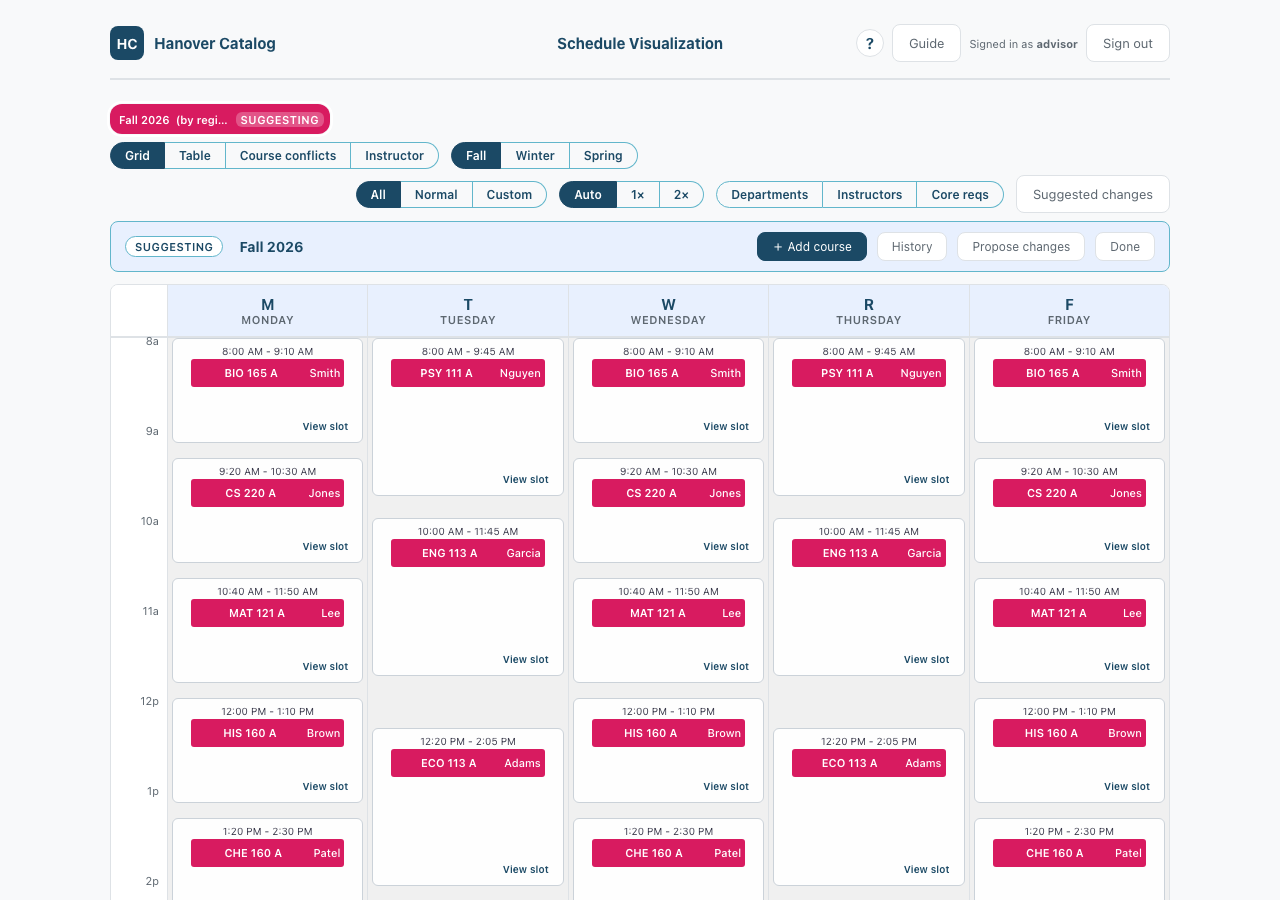
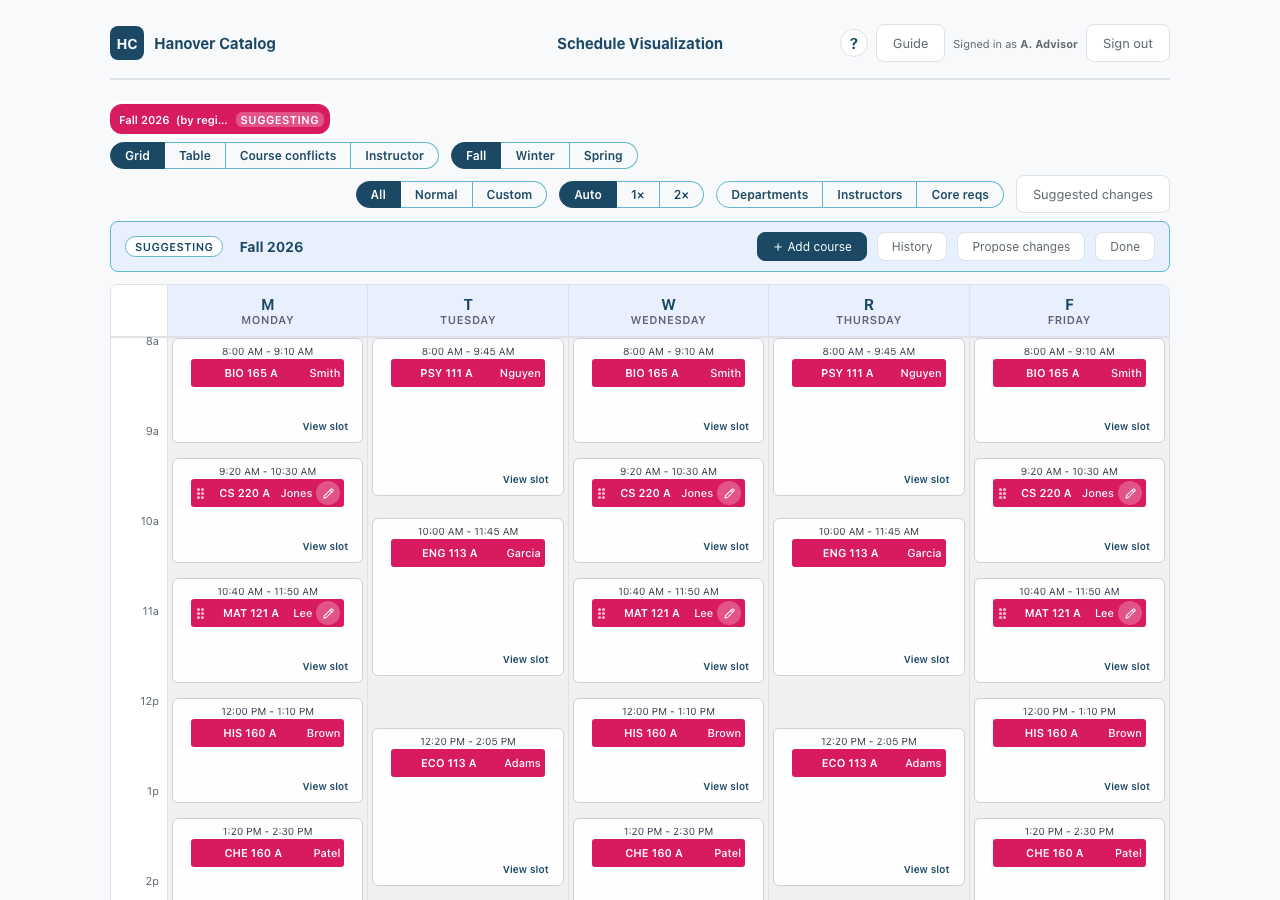
docs-site: a chair's first-session walkthrough and a table view page
Adds a self-contained getting-started walkthrough for a department chair
(sign in, activate the shared schedule, add and adjust courses, send
suggestions, watch the proposals trail) with the finer details linked at
each step, and a dedicated Working with the table view page covering the
filters, linkable URLs, in-place cell edits, and row actions. views.md is
slimmed to a summary pointing at the new page.

The screenshot harness gains schedule-table-edit.png (a suggest session
in the table, the advisor's departments editable) and the suggest fixture
now sets the advisor's departments so those rows are editable; all shots
re-rendered.

diff --git a/docs-site/guide/schedule/chair-first-session.md b/docs-site/guide/schedule/chair-first-session.md
@@ -1,0 +1,175 @@
+# A department chair's first session
+
+This walkthrough is for a department chair who has been handed a schedule to
+fill in for next year: the registrar made it, added your name, and now it is
+your job to say what your department will teach. Follow it top to bottom once
+and you will have done the whole loop — signed in, brought the schedule into
+your week, added and adjusted courses, sent your suggestions, and seen what
+other departments are asking for. Each step is enough to do the task; pages
+with the finer details are linked at the bottom of the step and listed at the
+end.
+
+## 1. Sign in
+
+When the app opens it asks you to **Sign in** or **Work offline**.
+
+- **Sign in** keeps your schedules on the college server, so they are there
+  next time and can be shared. If it offers **Sign in with SSO**, that is the
+  college login you already use.
+- **Work offline** keeps everything on this one computer — fine for trying
+  things out, but nothing is shared.
+
+Once you are in, the top right reads **Signed in as …**.
+
+## 2. Show the schedule that was shared with you
+
+Your schedule was created by someone else and your name was added to it. There
+is no invitation link to click — it simply appears for you:
+
+1. Click **Your schedules** at the top left.
+2. Look under **Shared with you**, or under **Public** if it was opened to
+   everyone. The **Filter by name or owner…** box and the **All years** list
+   narrow things down.
+3. Click the **eye** on its row.
+
+The schedule is now showing in your week: its classes draw on the grid, and
+the colored **pill** at the top names it. Nothing under **Shared with you**?
+Ask the schedule's owner to add your name.
+
+## 3. Read the week
+
+The **Grid** is the home view: five columns, one per weekday (**M T W R F** —
+**R is Thursday**), a time ruler down the left, and a colored block for each
+class meeting.
+
+- The **Fall**, **Winter**, and **Spring** buttons switch terms; next year's
+  plan usually lives in one of them.
+- Click a day name (for example **M Monday**) to see that whole day in order.
+- Click a block to open it, then **View slot** to list everything meeting at
+  that exact time.
+
+<Shot file="schedule-overview.png" />
+
+Finer details: [The views at a glance](/guide/schedule/views).
+
+## 4. Add your courses
+
+You do not own this schedule, so you cannot change it directly — you
+**suggest** changes and the owner approves them. That is how everyone else
+works on it too.
+
+1. On the schedule's colored **pill**, click the **speech bubble** to start
+   suggesting. A bar appears with **＋ Add course**, **History**,
+   **Propose changes**, and **Done**.
+
+<Shot file="schedule-suggest-session.png" />
+
+2. Click **＋ Add course** and start typing a course **code or name** — for
+   example `CS 220` or `statistics`. The list narrows as you type. Searches
+   lean toward the departments you belong to, but any course can be found.
+3. Click the section you want (for example **CS 220 A**). The course editor
+   opens with sensible defaults.
+
+<Shot file="schedule-add-course.png" />
+
+4. Adjust the teacher, meeting time, and seats if the defaults are not right
+   (see the next step), then **Save changes**. The course appears in your week
+   immediately — as a draft only you can see until you propose it.
+5. Add the rest of your courses the same way.
+
+Finer details: [Adding a course](/guide/schedule/add-course) and
+[Editing vs suggesting](/guide/schedule/edit-vs-suggest).
+
+## 5. Adjust an existing course
+
+Click the **pencil** on any course block — or on its row in the table view —
+to open the editor for that section. It holds everything:
+
+- **Section** — the letter that identifies the class (A, B, …).
+- **Seats** — the number of seats you are requesting (defaults to 24).
+- **Title** — leave it blank to use the catalog title, or type one for a
+  special-topics section.
+- **Instructor** — start typing, then pick from the name suggestions.
+- **Meeting time** — pick a standard **Time slot**, type a **Custom time**, or
+  choose **No meeting time**.
+
+<Shot file="schedule-course-editor.png" />
+
+Click **Save changes** when you are done, or **Cancel** to leave the course
+untouched. One quirk worth knowing: if a class meets **MWF** and you switch it
+to **TR**, the old time no longer applies, so the app asks you to **Pick a
+time slot for TR** before it will save — and the same the other way around.
+
+Finer details: [Changing a course](/guide/schedule/edit-course), including
+labs, co-teachers, and custom times.
+
+## 6. Review your department in the table view
+
+Switch to the **Table** tab to see every offering of the term as one compact
+row: course, title, instructor, meeting, seats, core areas, and which schedule
+it came from. It is the fastest way to check that your department adds up.
+
+- **Departments** and **Instructors** chips hide everything that does not
+  match; pick several chips to widen the list, and **Clear** to reset.
+- In your suggest session the cells you may change are editable in place:
+  click **Instructor** to pick from name suggestions, click **Meeting** to
+  choose a standard time (or **Custom…**), and type over **Title** and
+  **Seats**. Enter or clicking away commits; Esc cancels.
+- The row's **pencil** opens the full course editor, and **＋ Add course** is
+  right in the table's header.
+
+<Shot file="schedule-table-edit.png" />
+
+Finer details: [Working with the table view](/guide/schedule/table-view).
+
+## 7. Send your suggestions
+
+Nothing you have done so far has reached the schedule. Your edits sit in a
+private draft until you send them:
+
+1. Click **Propose changes** — the **●** beside it means there are changes not
+   sent yet.
+2. Add a short note if you like (for example "CS 220 moved to TR; CS 223
+   added"), then send.
+3. Click **Done** to leave the session. If anything is still unsent, the app
+   asks before discarding it.
+
+The proposals are now **pending**, waiting for the owner. Nothing is written
+to the schedule until they approve.
+
+Finer details: [Submitting changes](/guide/schedule/proposals).
+
+## 8. See what other departments proposed
+
+Suggestions run both ways. The toolbar's **Suggested changes** button opens
+the shared record for the schedule: every live proposal, who made it, and the
+history of what was approved, rejected, or withdrawn.
+
+<Shot file="schedule-proposals.png" />
+
+As a suggester (not the owner) you can read the whole trail here and withdraw
+your own proposals; **Approve**, **Reject**, and **Export (markdown)** belong
+to the owner. **History** on the session bar is different — that is just your
+own changes from this sitting, with undo.
+
+Finer details:
+[Submitting changes and reviewing suggestions](/guide/schedule/proposals).
+
+## Where to find the finer details
+
+- [The views at a glance](/guide/schedule/views) — day, slot, filters, and the
+  core-requirement highlight.
+- [Working with the table view](/guide/schedule/table-view) — filters, linkable
+  URLs, and every in-place edit.
+- [Checking for conflicts](/guide/schedule/conflicts) — classes that collide
+  and double-booked teachers.
+- [Where a course can hide](/guide/schedule/hiding) — no-meeting courses and
+  unusual times.
+- [Adding a lab](/guide/schedule/labs) — attach a lab section to its lecture.
+- [Downloading a CSV](/guide/schedule/csv) — the current week or a whole
+  schedule.
+- [Sharing a schedule](/guide/schedule/sharing) — who can see and suggest.
+- [Your schedules](/guide/schedule/your-schedules) — creating, copying, and
+  managing schedules.
+- [Words used in this app](/guide/schedule/glossary) — the plain-language
+  dictionary.

diff --git a/docs-site/guide/schedule/table-view.md b/docs-site/guide/schedule/table-view.md
@@ -1,0 +1,66 @@
+# Working with the table view
+
+The **Table** tab shows every offering of the selected schedules' term as one
+compact, spreadsheet-like row — the fastest way to scan a whole department and
+the quickest place to make a series of small changes.
+
+<Shot file="schedule-table.png" />
+
+## The columns
+
+**Course** and section, **Title**, **Instructor**, **Meeting**, **Seats**,
+**Core** areas, and **Schedule** (which of the shown schedules the row belongs
+to). The corner count — **N offerings** — tells you how many rows are in view.
+The term buttons (**Fall**, **Winter**, **Spring**) apply here like everywhere
+else.
+
+## Narrowing the list
+
+The **Departments** and **Instructors** chips hide everything that does not
+match. Pick several chips to widen the list; click a selected chip to drop it;
+**Clear** resets both.
+
+- The Departments row starts expanded; the Instructors row starts collapsed —
+  click its header to expand it (or to tuck it away again).
+- A collapsed row keeps its selected chips visible, so you can still remove
+  them, and the header shows how many are selected.
+- The choice lives in the address, like a link you can keep:
+  `#/table?dept=CS&dept=MAT&instructor=jsmith`. Following a course link and
+  pressing Back, or returning later, restores it.
+
+## Read-only, or editable
+
+Outside a session the table is read-only — the hint in the corner says so —
+and every value is plain text. Start an **edit** session (the pencil on a
+schedule you own) or a **suggest** session (the speech bubble), and the cells
+you are allowed to change become editable in place: your departments' rows, as
+usual. In a suggest session the hint reminds you that the edits are limited to
+your departments and become proposals. Rows from other selected schedules stay
+dimmed as references, and nothing on them can be changed.
+
+- **Title** and **Seats** — click and type. Enter or clicking away commits;
+  Esc cancels.
+- **Instructor** — click the cell, start typing, and pick from the name
+  suggestions (or **Show all instructors**). Co-teachers are not editable
+  here: the cell shows the lead teacher and a **+N** count, and the full
+  editor manages the rest of the roster.
+- **Meeting** — click the cell and pick one of the term's standard time slots,
+  **No meeting time**, or **Custom…** to type a meeting of your own.
+- Every committed edit lands in the draft and **History** exactly like a
+  change made anywhere else in the app; input that cannot be read simply
+  reverts.
+
+## Row actions
+
+- The **pencil** opens the full [course editor](/guide/schedule/edit-course),
+  where labs, cross-listing, and co-teachers live.
+- The **trash** removes the section from the schedule, after a confirmation.
+- **＋ Add course** sits in the table's header during a session and opens the
+  same dialog as everywhere else.
+
+## Related
+
+- [The views at a glance](/guide/schedule/views) — grid, day, and slot.
+- [Editing vs suggesting](/guide/schedule/edit-vs-suggest) — starting a
+  session.
+- [Submitting changes](/guide/schedule/proposals) — sending your draft.

diff --git a/docs-site/guide/schedule/views.md b/docs-site/guide/schedule/views.md
@@ -35,25 +35,10 @@ side by side.
 
 Every offering of the selected schedules' term as a compact, spreadsheet-like
 row: course and section, title, instructor, meeting, seats, core areas, and the
-schedule it came from. **Departments** and **Instructors** chips hide everything
-that does not match — pick several chips to widen, **Clear** to reset. The
-Instructors row starts collapsed (expand it from its header); you can collapse a
-row again even with chips selected — the selected chips stay visible (click one
-to remove it) and the header shows how many are selected — and each row's chips
-are one uniform width so long names don't make the list ragged. The choice lives
-in the address (`#/table?dept=CS&dept=MAT&instructor=jsmith`), so clicking a
-course link and coming back (or the browser Back button) keeps the filters. When
-you start editing (or suggesting), the cells you are allowed
-to change become editable in place: the instructor cell suggests names as you
-type (and shows just the lead, with a **+N** when co-teachers are attached —
-the full editor manages those), and the meeting cell picks from the term's
-standard time slots (with a **Custom…** field when a course meets at another
-time). Enter or click away commits a cell, Esc cancels. The row's pencil opens
-the full [course editor](/guide/schedule/edit-course) for labs and
-cross-listing, and **＋ Add course** adds a section. Rows from the other selected
-schedules are dimmed as references, just like in the Grid.
-
-<Shot file="schedule-table.png" />
+schedule it came from. **Departments** and **Instructors** chips narrow the
+list, and during an edit or suggest session the cells you may change are
+editable in place. See
+[Working with the table view](/guide/schedule/table-view).
 
 ## Course conflicts — follow one course
 
@@ -74,8 +59,8 @@ Pick a teacher to see their week and any double-bookings. See
 On the **Grid**, **Day**, and **Slot** views, the **Departments** and
 **Instructors** buttons open a row of chips. Click chips to pick departments or
 teachers; matching classes are highlighted and colored, and everything else is
-dimmed. **Clear** resets it. (The **Table** view has its own **Department**
-selector instead.)
+dimmed. **Clear** resets it. (The **Table** view has its own chips instead —
+see [Working with the table view](/guide/schedule/table-view).)
 
 ::: tip
 Filters make matching classes stand out — they do not remove the others from

diff --git a/docs-site/guide/schedule/index.md b/docs-site/guide/schedule/index.md
@@ -56,12 +56,16 @@ different one.
 
 ## A quick tour
 
+- [A department chair's first session](/guide/schedule/chair-first-session) —
+  the whole loop in one page, sign-in to proposals.
 - [Your schedules](/guide/schedule/your-schedules) — create one, find one
   shared with you, show or hide it.
 - [Sharing a schedule](/guide/schedule/sharing) — who can see it, who can
   suggest changes.
 - [The views at a glance](/guide/schedule/views) — grid, day, slot, and the
   rest.
+- [Working with the table view](/guide/schedule/table-view) — one row per
+  offering, with filters and in-place edits.
 - [Checking for conflicts](/guide/schedule/conflicts) — find classes that
   collide.
 - [Where a course can hide](/guide/schedule/hiding) — the places people miss.

diff --git a/docs/DOCS_SITE_PLAN.md b/docs/DOCS_SITE_PLAN.md
@@ -106,8 +106,9 @@ regeneration is one command and the mapping is reviewable.
 
 - `docs-site/index.md` — landing.
 - `docs-site/guide/schedule/` — the walkthroughs, aimed at non-technical
-  readers (plain language, exact UI labels in bold): getting around; your
-  schedules; sharing; the views; conflicts; where a course can hide;
+  readers (plain language, exact UI labels in bold): getting around; a
+  department chair's first session; your schedules; sharing; the views;
+  working with the table view; conflicts; where a course can hide;
   editing vs suggesting; adding a course; changing a course; adding a lab;
   submitting changes; downloading a CSV; a glossary.
 - `docs-site/guide/admin.md` — directory + CSV import (still a skeleton).
